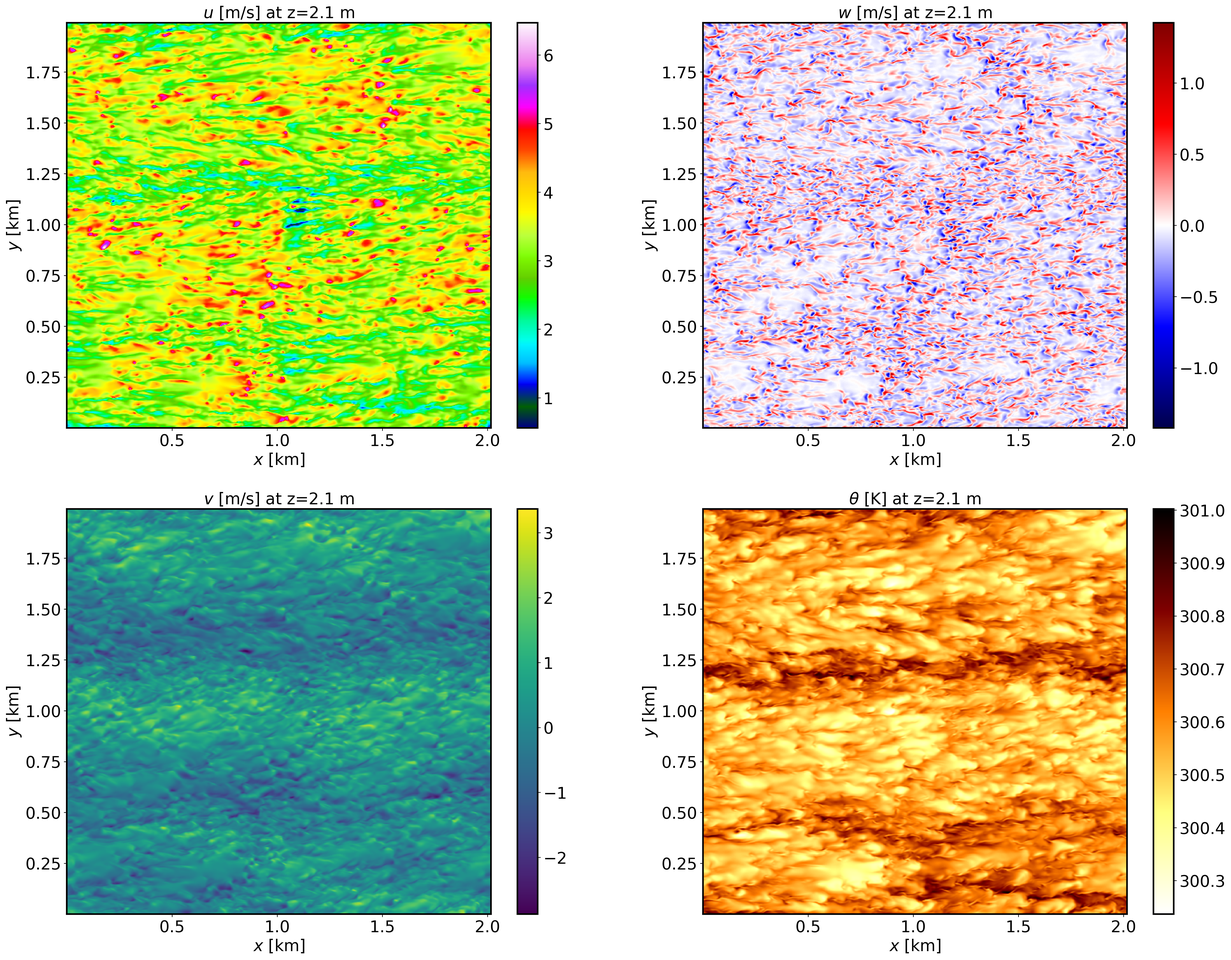
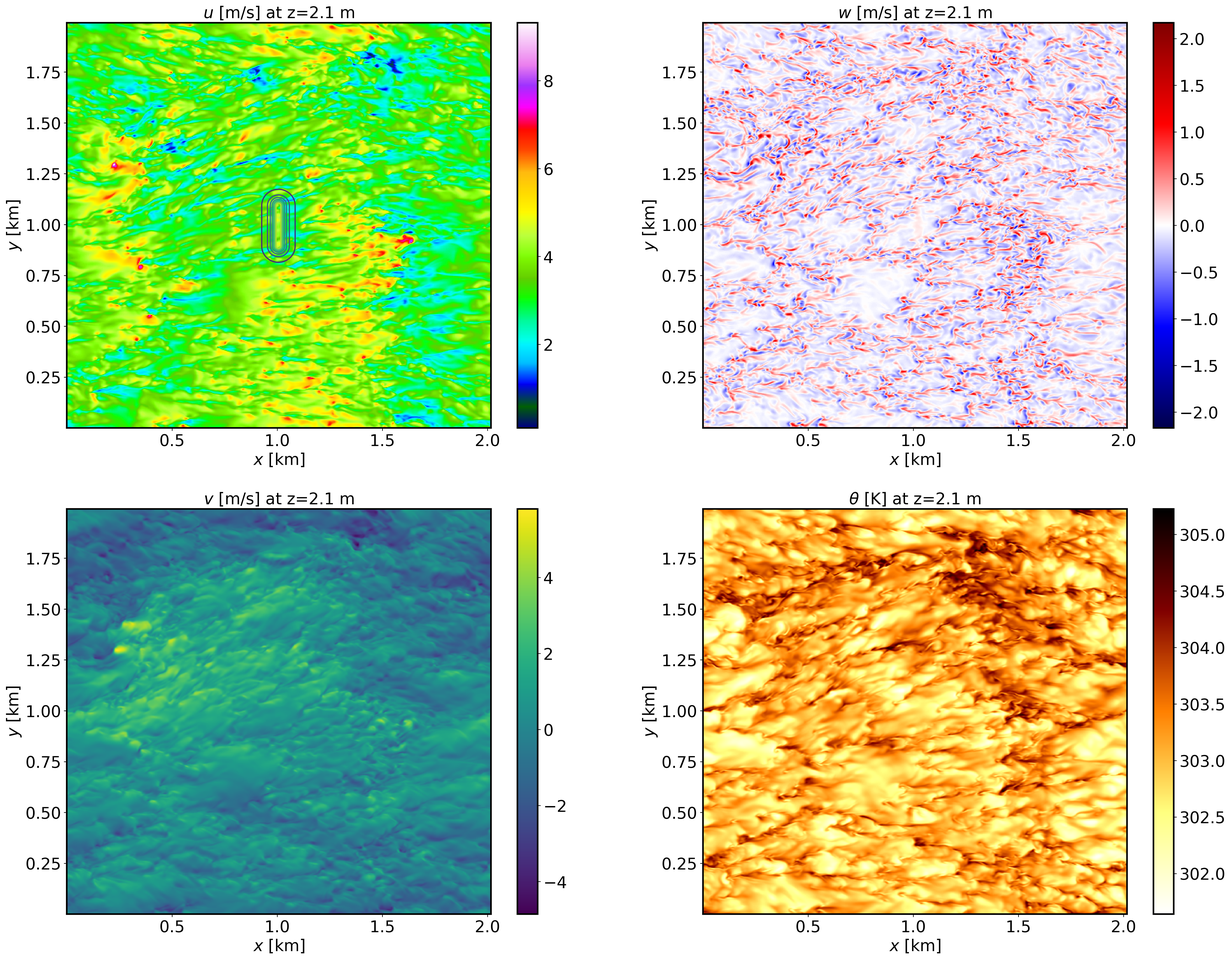
T&D part of the tutorial

diff --git a/docs/Tutorials/cases/DISPERSION.rst b/docs/Tutorials/cases/DISPERSION.rst
@@ -47,14 +47,41 @@ Visualize the output
 
 Open the Jupyter notebook entitled *MAKE_FE_TUTORIAL_PLOTS.ipynb* and execute it using setting: :code:`case = 'dispersion'`.
 
-XY-plane views of instantaneous velocity components and potential temperature for the SBL case at :math:`t=1` h (FE_DISPERSION.360000):
+XY-plane views of instantaneous velocity components and potential temperature for the SBL case at :math:`t=1` h (FE_DISPERSION.360000). The contour lines in the :math:`u` panel display terrain elevation:
 
 .. image:: ../images/UVWTHETA-XY-dispersion_SBL.png
   :width: 1200
   :alt: Alternative text
 
-XY-plane views of instantaneous velocity components and potential temperature for the CBL case at :math:`t=1` h (FE_DISPERSION.360000):
+XY-plane views of instantaneous velocity components and potential temperature for the CBL case at :math:`t=1` h (FE_DISPERSION.360000). The contour lines in the :math:`u` panel display terrain elevation:
 
 .. image:: ../images/UVWTHETA-XY-dispersion_CBL.png
   :width: 1200
   :alt: Alternative text
+
+XY-plane views of instantaneous plume dispersion for the SBL case at :math:`z=30` m AGL and different times (:math:`t=50,55,60` min), corresponding to the windward release:
+.. image:: ../images/CONCENTRATION-XY-dispersion_SBL.png
+  :width: 1200
+  :alt: Alternative text
+
+XY-plane views of instantaneous plume dispersion for the CBL case at :math:`z=30` m AGL and different times (:math:`t=50,55,60` min), corresponding to the windward release:
+.. image:: ../images/CONCENTRATION-XY-dispersion_CBL.png
+  :width: 1200
+  :alt: Alternative text
+
+YZ-plane views of instantaneous plume dispersion for the SBL case at several downstream distances (:math:`t=1` h, FE_DISPERSION.360000), corresponding to the windward release:
+.. image:: ../images/CONCENTRATION-YZ-dispersion_SBL.png
+  :width: 1200
+  :alt: Alternative text
+
+YZ-plane views of instantaneous plume dispersion for the CBL case at several downstream distances (:math:`t=1` h, FE_DISPERSION.360000), corresponding to the windward release:
+.. image:: ../images/CONCENTRATION-YZ-dispersion_CBL.png
+  :width: 1200
+  :alt: Alternative text
+
+Analyze the output
+------------------
+
+* How does the terrain impact gets altered by the different stability conditions?
+* What are the differences in plume dispersion between stable and convective condtions?
+* How does downstream distance affect structure of the plume?
